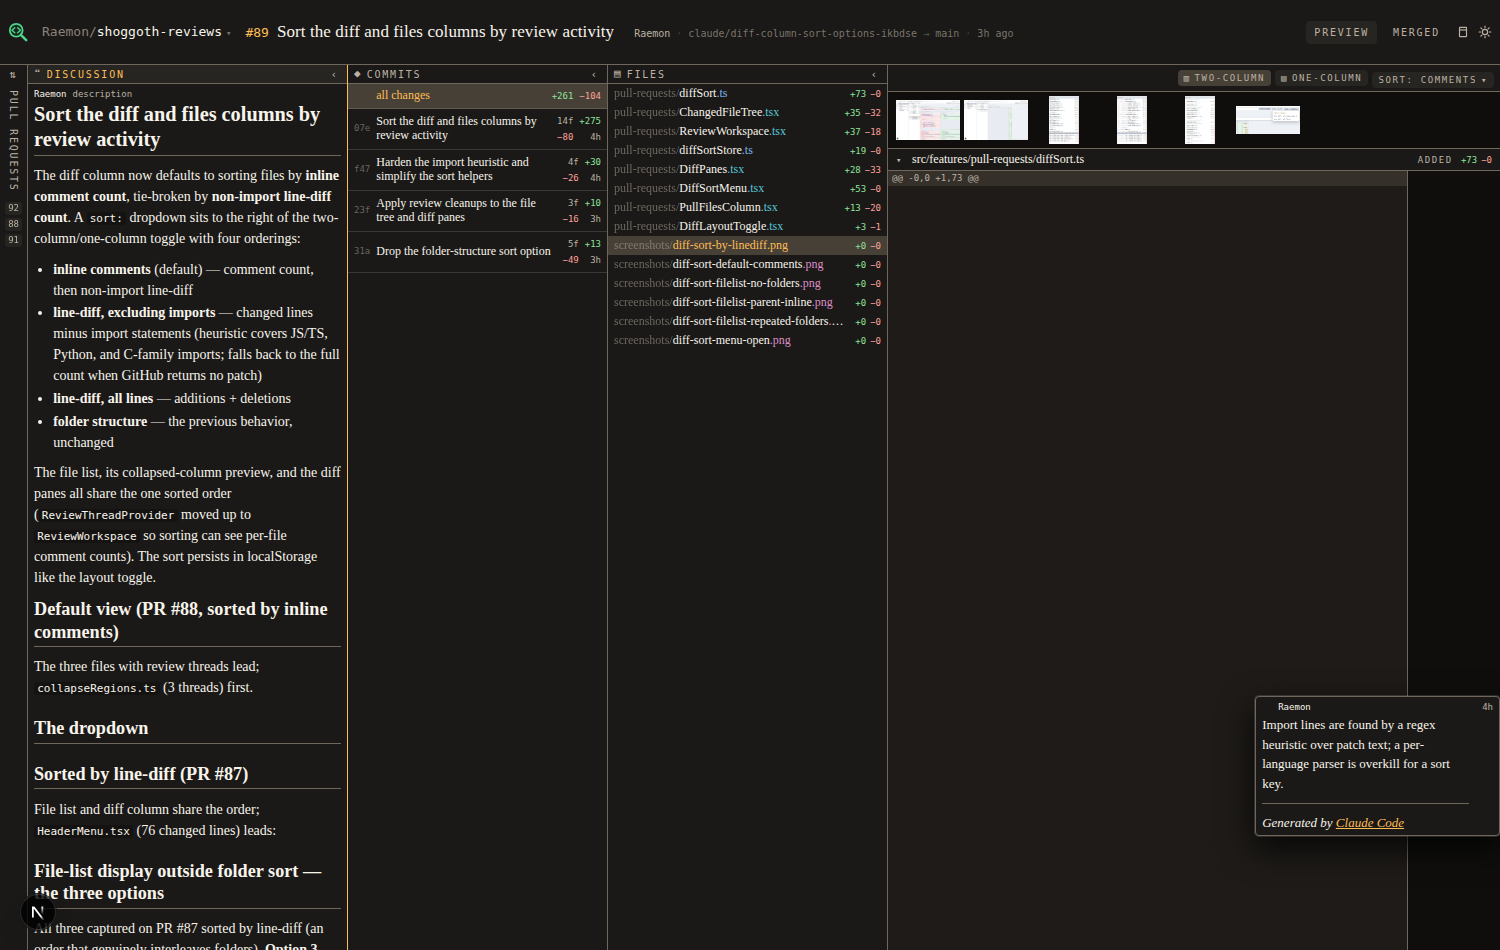
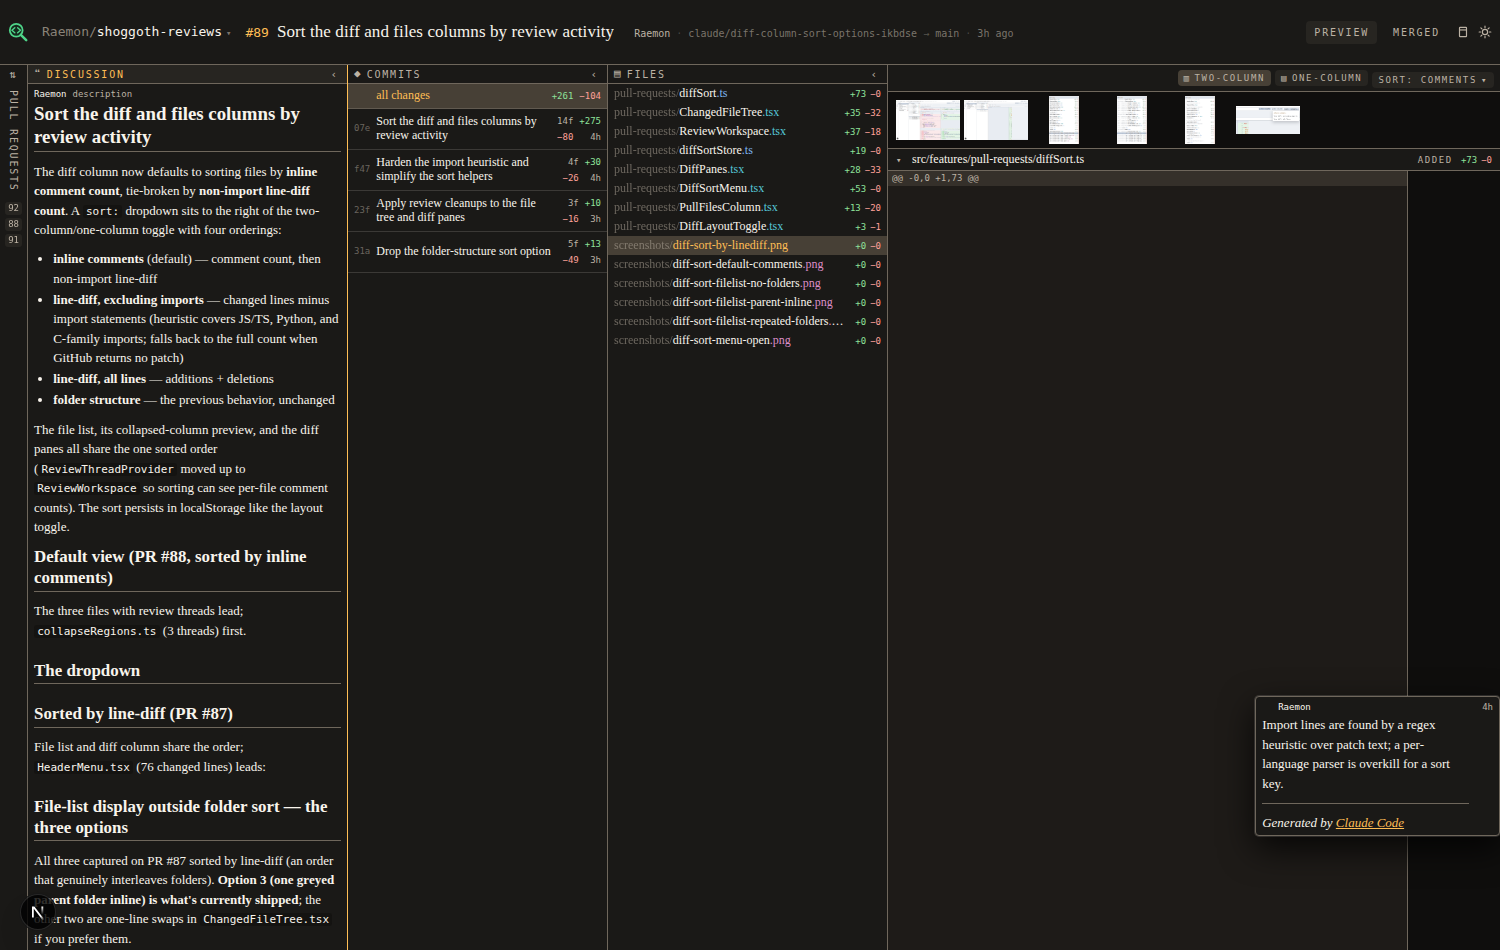
Set markdown and filename type in CSS, not class-string constants
Markdown bodies get 13px serif from the .markdown-body rule rather
than each call site repeating the size, and filenames use a
filename-text utility alongside the existing shadow-card one instead
of an exported class string.

Inline review comments render through the same .markdown-body, so they
pick up the base with no call-site change. Markdown code stays pinned
to 11px mono.

Claude-Session: https://claude.ai/code/session_01My9rUVVFJRpNnr71NCxwo8

Changed region(s): [[0.0, 0.0916, 0.2453, 1.0]]

diff --git a/src/features/pull-requests/ChangedFileTree.tsx b/src/features/pull-requests/ChangedFileTree.tsx
@@ -2,7 +2,7 @@
 
 import { ChangeCounts } from './ChangeCounts';
 import { useColumnNav } from './columnNav';
-import { FILENAME_TEXT, fileKindColor, splitExtension } from './fileKind';
+import { fileKindColor, splitExtension } from './fileKind';
 import { baseName, folderOf } from './fileTree';
 import type { ChangedFile } from './pullRequests';
 import { rowShowsAccent, rowStateClass } from '@/features/surface-ui/rowState';
@@ -44,7 +44,7 @@ function FileRow({
       onActivate={() => onSelect(file.filename)}
       className={`${ROW} ${rowStateClass(row.state)}`}
     >
-      <span className={`min-w-0 flex-1 truncate ${FILENAME_TEXT}`}>
+      <span className="min-w-0 flex-1 truncate filename-text">
         <ParentFolder path={file.filename} />
         <FileName path={file.filename} tinted={!rowShowsAccent(row.state)} />
       </span>

diff --git a/src/features/pull-requests/DiffFileSection.tsx b/src/features/pull-requests/DiffFileSection.tsx
@@ -4,7 +4,6 @@ import { ChangeCounts } from './ChangeCounts';
 import { useColumnNav } from './columnNav';
 import { FileDiff } from './FileDiff';
 import { ImageDiff } from './ImageDiff';
-import { FILENAME_TEXT } from './fileKind';
 import { isImagePath } from './imageFiles';
 import { imageSides } from './imageView';
 import type { ChangedFile } from './pullRequests';
@@ -44,7 +43,7 @@ export function DiffFileSection({
         <span aria-hidden className="w-2 shrink-0 text-[9px] text-ink-dim">
           {open ? '▾' : '▸'}
         </span>
-        <span className={`min-w-0 flex-1 truncate ${FILENAME_TEXT}`}>
+        <span className="min-w-0 flex-1 truncate filename-text">
           {file.previousFilename && <span className="text-ink-dim">{file.previousFilename} → </span>}
           {file.filename}
         </span>

diff --git a/src/features/pull-requests/ImageViewerModal.tsx b/src/features/pull-requests/ImageViewerModal.tsx
@@ -3,7 +3,6 @@
 import { createPortal } from 'react-dom';
 import type { ReactNode, RefObject } from 'react';
 import { GalleryImage } from './BlobImage';
-import { FILENAME_TEXT } from './fileKind';
 import { baseName } from './fileTree';
 import type { ChangedFile } from './pullRequests';
 import type { ImageGallery } from './imageView';
@@ -97,7 +96,7 @@ function ViewerCaption({ file, index, count, onClose }: { file: ChangedFile; ind
 function CaptionName({ path }: { path: string }) {
   return (
     <HoverCardTrigger label={path} serifLabel className="min-w-0 flex-1" focusable={false} tooltipStyle>
-      <span className={`truncate text-ink ${FILENAME_TEXT}`}>{baseName(path)}</span>
+      <span className="filename-text truncate text-ink">{baseName(path)}</span>
     </HoverCardTrigger>
   );
 }

diff --git a/src/features/pull-requests/PullDiscussion.tsx b/src/features/pull-requests/PullDiscussion.tsx
@@ -86,7 +86,7 @@ function DiscussionEntry({
         {path && <span className="min-w-0 flex-1 truncate font-serif text-[10px]">{path}</span>}
       </header>
       <HoverCardHtml
-        className="markdown-body break-words text-[14px] leading-[1.5] text-ink"
+        className="markdown-body break-words text-ink"
         html={renderMarkdown(body, { owner, repo })}
         tooltipStyle
       />

diff --git a/src/features/pull-requests/CommitEditModal.tsx b/src/features/pull-requests/CommitEditModal.tsx
@@ -46,7 +46,7 @@ export function CommitEditModal({
     >
       <div className="p-3">
         <h2 className="text-[12px] text-ink">Make new commit?</h2>
-        <p className="mt-1 truncate font-serif text-[11px] text-ink-dim">{path}</p>
+        <p className="filename-text mt-1 truncate text-ink-dim">{path}</p>
         <textarea
           value={message}
           rows={3}

diff --git a/src/features/pull-requests/ThreadCard.tsx b/src/features/pull-requests/ThreadCard.tsx
@@ -92,7 +92,7 @@ function ThreadComment({
       </header>
       {showBody && (
         <HoverCardHtml
-          className="markdown-body break-words pr-6 text-[13px] leading-[1.5] text-ink"
+          className="markdown-body break-words pr-6 text-ink"
           html={renderMarkdown(comment.body, repo)}
           tooltipStyle
         />

diff --git a/src/app/globals.css b/src/app/globals.css
@@ -44,6 +44,11 @@
   box-shadow: var(--shadow-card);
 }
 
+@utility filename-text {
+  font-family: var(--font-serif);
+  font-size: 12px;
+}
+
 :root {
   --bg: #eef1f5;
   --panel: #ffffff;
@@ -197,6 +202,8 @@
 
 .markdown-body {
   font-family: var(--font-serif);
+  font-size: 13px;
+  line-height: 1.5;
 }
 
 .markdown-body code,

diff --git a/src/features/pull-requests/fileKind.ts b/src/features/pull-requests/fileKind.ts
@@ -1,7 +1,5 @@
 import { isImagePath } from './imageFiles';
 
-export const FILENAME_TEXT = 'font-serif text-[12px]';
-
 const KIND_BY_EXTENSION: Record<string, string> = {
   ts: 'ts',
   mts: 'ts',
